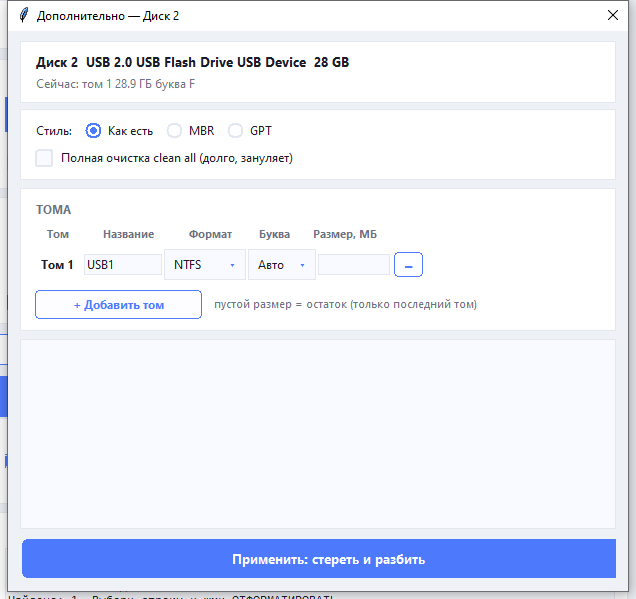
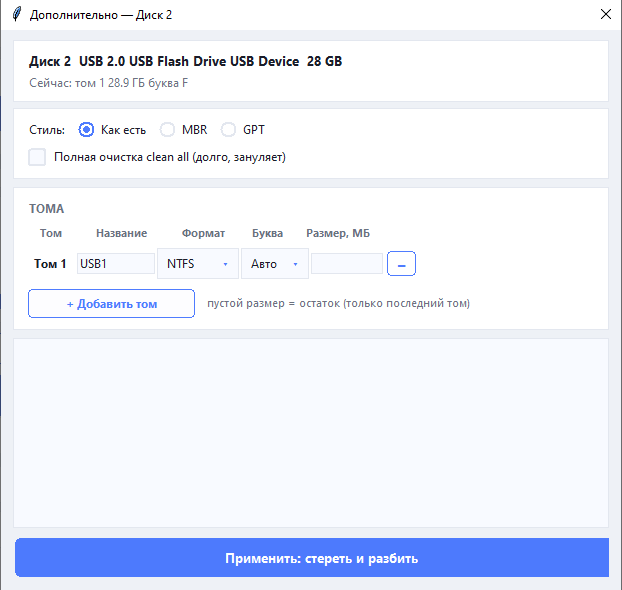
README: раздел Кому пригодится, ровные скриншоты

Changed region(s): [[0.0, 0.0, 1.0, 1.0], [0.4887, 0.3661, 0.6109, 0.4271], [0.3971, 0.3661, 0.4582, 0.4576]]

diff --git a/README.md b/README.md
@@ -9,6 +9,15 @@
 ![Главное окно — светлая тема](screenshots/main-light.png)
 ![Дополнительно: тома, буквы, MBR/GPT](screenshots/advanced.png)
 
+## Кому пригодится
+
+- **После загрузочной флешки.** Запись ISO-образа (Rufus, Ventoy, dd и т.п.) разбивает флешку на несколько разделов, часть из которых Windows даже не показывает, а доступный объём «съёживается». Программа убирает лишние разделы и возвращает один том на весь объём.
+- **После неудачного форматирования.** Флешка не отображается в Проводнике и стандартных средствах Windows, определяется как RAW или система бесконечно просит её отформатировать.
+- **Флешка «стала меньше».** Остатки старых разделов и скрытые области съедают место — очистка возвращает полный заводской объём.
+- **Нужно несколько томов на одной флешке.** Например, разделить документы и загрузочный раздел с выбором букв и файловых систем.
+- **Передача флешки в чужие руки.** Полная очистка с занулением (`clean all`) надёжно стирает данные.
+- **Страшно лезть в diskpart.** Всё то же самое, что делается консолью, — но одной кнопкой и с защитой от форматирования системного диска.
+
 ## Возможности
 
 - Форматирование в один клик: NTFS / exFAT / FAT32 (до 32 ГБ), быстрое или полное
